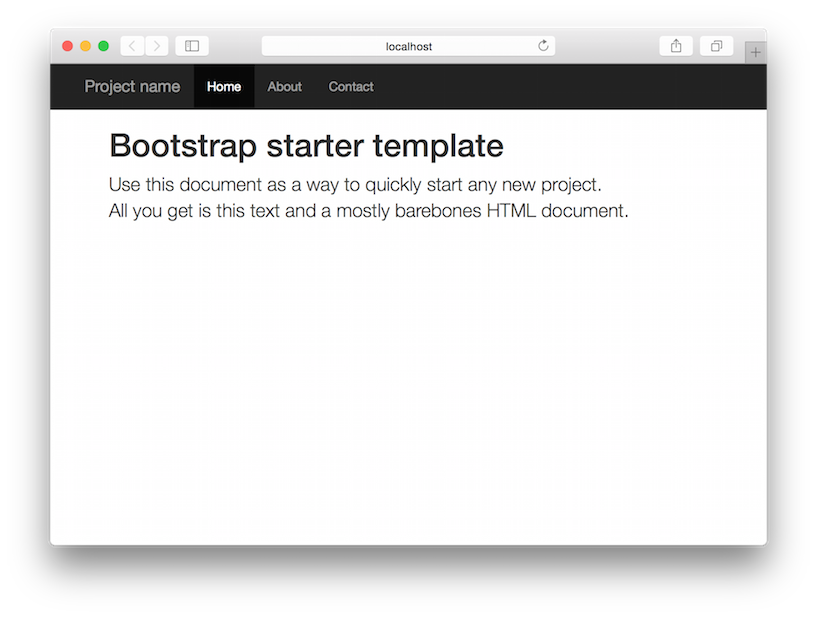
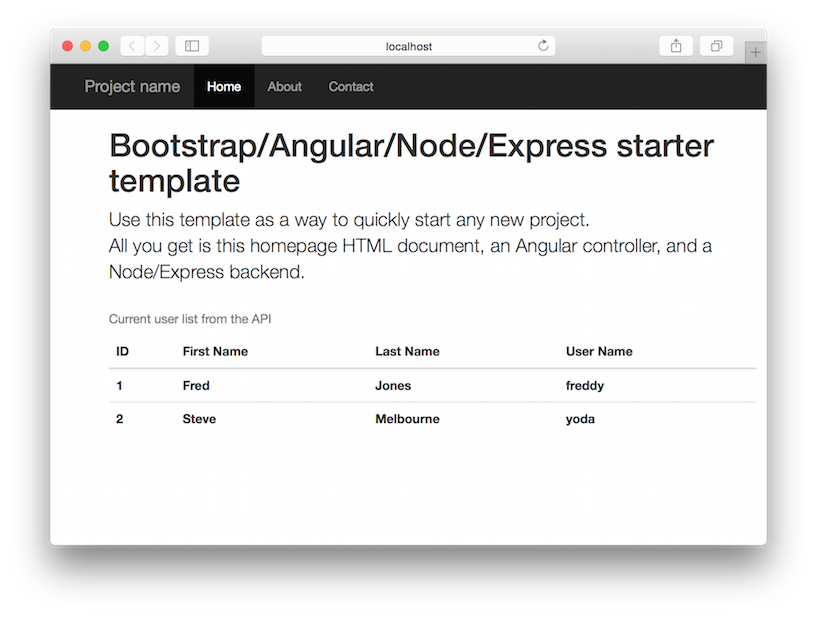
Format data with bootstrap table

diff --git a/controllers/users.js b/controllers/users.js
@@ -11,8 +11,8 @@ function dataify(limit, offset, totalItemCount, items) {
 
 exports.index = function(req, res, next) {
   var users = [
-    { id: 1, name: 'Fred Jones' },
-    { id: 2, name: 'Steve Melbourne'}
+    { id: 1, firstName: 'Fred', lastName: 'Jones', username: 'freddy' },
+    { id: 2, firstName: 'Steve', lastName: 'Melbourne', username: 'yoda' }
   ];
 
   res.status(200).send(dataify(null, null, users.length, users));

diff --git a/bin/routes.js b/bin/routes.js
@@ -1,7 +1,5 @@
 var
-  express = require('express')
-  , router = express.Router()
-  , indexController = require(process.cwd() + '/controllers/index')
+  indexController = require(process.cwd() + '/controllers/index')
   , usersController = require(process.cwd() + '/controllers/users')
 ;
 
